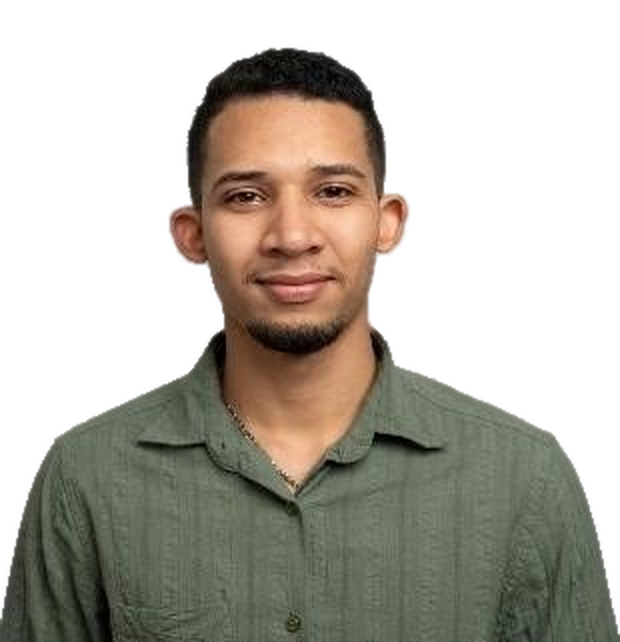
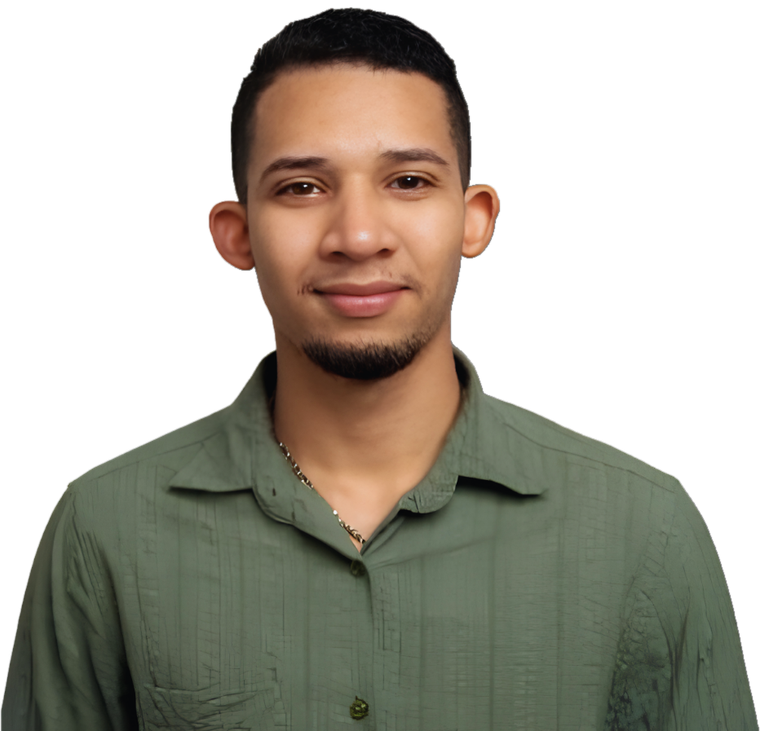
feat(portfolio): add Pandas, Spark, and n8n in structured 5x3 grid and upgrade HD portrait

diff --git a/index.html b/index.html
@@ -15,8 +15,8 @@
     <meta property="og:site_name" content="Jayzir Martinez | Portfolio">
     <meta property="og:title" content="Jayzir Martinez | Backend & Data Engineer">
     <meta property="og:description" content="Mechatronics Engineer specialized in Backend Architecture, Apache Airflow ETL Pipelines, FastAPI, PostgreSQL & Data Engineering.">
-    <meta property="og:image" content="https://jayzirtech.github.io/portfolio_JayzirTech/index_styles/assets/imgs/og-preview.jpg?v=3">
-    <meta property="og:image:secure_url" content="https://jayzirtech.github.io/portfolio_JayzirTech/index_styles/assets/imgs/og-preview.jpg?v=3">
+    <meta property="og:image" content="https://jayzirtech.github.io/portfolio_JayzirTech/index_styles/assets/imgs/og-preview.jpg?v=4">
+    <meta property="og:image:secure_url" content="https://jayzirtech.github.io/portfolio_JayzirTech/index_styles/assets/imgs/og-preview.jpg?v=4">
     <meta property="og:image:type" content="image/jpeg">
     <meta property="og:image:width" content="1200">
     <meta property="og:image:height" content="630">
@@ -29,14 +29,14 @@
     <meta name="twitter:url" content="https://jayzirtech.github.io/portfolio_JayzirTech/">
     <meta name="twitter:title" content="Jayzir Martinez | Backend & Data Engineer">
     <meta name="twitter:description" content="Mechatronics Engineer specialized in Backend Architecture, ETL Pipelines & Data Engineering.">
-    <meta name="twitter:image" content="https://jayzirtech.github.io/portfolio_JayzirTech/index_styles/assets/imgs/og-preview.jpg?v=3">
+    <meta name="twitter:image" content="https://jayzirtech.github.io/portfolio_JayzirTech/index_styles/assets/imgs/og-preview.jpg?v=4">
 
     <title>Jayzir Martinez | Backend &amp; Data Engineer</title>
     <link rel="shortcut icon" href="./index_styles/assets/imgs/Favicon.png" type="image/png">
     <link rel="preconnect" href="https://fonts.googleapis.com">
     <link rel="preconnect" href="https://fonts.gstatic.com" crossorigin>
     <link href="https://fonts.googleapis.com/css2?family=Inter:wght@400;500;600;700&family=JetBrains+Mono:wght@400;500;600&display=swap" rel="stylesheet">
-    <link rel="stylesheet" href="./index_styles/assets/css/style.css?v=3">
+    <link rel="stylesheet" href="./index_styles/assets/css/style.css?v=4">
 
     <!-- Prevent theme flash on load -->
     <script>
@@ -121,11 +121,11 @@
                     <div class="portrait-portal" aria-hidden="true"></div>
                     <div class="portrait-mask">
                         <img
-                            src="./index_styles/assets/imgs/jayzir-portrait.png"
+                            src="./index_styles/assets/imgs/jayzir-portrait.png?v=4"
                             alt="Jayzir Martinez"
                             class="portrait-img"
-                            width="310"
-                            height="321"
+                            width="760"
+                            height="731"
                         >
                     </div>
                 </div>
@@ -236,6 +236,7 @@
         <h3 data-i18n="tech.title">Lenguajes y Tecnologías</h3>
         <p class="section-subtitle" data-i18n="tech.subtitle">Haz clic en cualquier tecnología para visitar su sitio oficial.</p>
         <div class="tech-grid">
+            <!-- Python Core & Data Engineering -->
             <a href="https://www.python.org/" target="_blank" rel="noopener noreferrer" class="tech-item" title="Python">
                 <img src="./index_styles/assets/imgs/python.png" alt="Python" class="language-img" width="50" height="50">
                 <span class="tech-name">Python</span>
@@ -244,9 +245,27 @@
                 <img src="./index_styles/assets/imgs/tech/fastapi.svg" alt="FastAPI" class="language-img" width="50" height="50">
                 <span class="tech-name">FastAPI</span>
             </a>
+            <a href="https://pandas.pydata.org/" target="_blank" rel="noopener noreferrer" class="tech-item" title="Pandas">
+                <img src="./index_styles/assets/imgs/tech/pandas.svg" alt="Pandas" class="language-img" width="50" height="50">
+                <span class="tech-name">Pandas</span>
+            </a>
+            <a href="https://spark.apache.org/" target="_blank" rel="noopener noreferrer" class="tech-item" title="Apache Spark">
+                <img src="./index_styles/assets/imgs/tech/spark.svg" alt="Apache Spark" class="language-img" width="50" height="50">
+                <span class="tech-name">Spark</span>
+            </a>
             <a href="https://airflow.apache.org/" target="_blank" rel="noopener noreferrer" class="tech-item" title="Apache Airflow">
                 <img src="./index_styles/assets/imgs/tech/airflow.svg" alt="Apache Airflow" class="language-img" width="50" height="50">
                 <span class="tech-name">Airflow</span>
+            </a>
+
+            <!-- Automation, Messaging, Databases & Containers -->
+            <a href="https://n8n.io/" target="_blank" rel="noopener noreferrer" class="tech-item" title="n8n">
+                <img src="./index_styles/assets/imgs/tech/n8n.svg" alt="n8n" class="language-img" width="50" height="50">
+                <span class="tech-name">n8n</span>
+            </a>
+            <a href="https://www.rabbitmq.com/" target="_blank" rel="noopener noreferrer" class="tech-item" title="RabbitMQ">
+                <img src="./index_styles/assets/imgs/tech/rabbitmq.svg" alt="RabbitMQ" class="language-img" width="50" height="50">
+                <span class="tech-name">RabbitMQ</span>
             </a>
             <a href="https://www.postgresql.org/" target="_blank" rel="noopener noreferrer" class="tech-item" title="PostgreSQL">
                 <img src="./index_styles/assets/imgs/tech/postgresql.svg" alt="PostgreSQL" class="language-img" width="50" height="50">
@@ -260,10 +279,8 @@
                 <img src="./index_styles/assets/imgs/tech/docker.svg" alt="Docker" class="language-img" width="50" height="50">
                 <span class="tech-name">Docker</span>
             </a>
-            <a href="https://www.rabbitmq.com/" target="_blank" rel="noopener noreferrer" class="tech-item" title="RabbitMQ">
-                <img src="./index_styles/assets/imgs/tech/rabbitmq.svg" alt="RabbitMQ" class="language-img" width="50" height="50">
-                <span class="tech-name">RabbitMQ</span>
-            </a>
+
+            <!-- Version Control, Web Stack & Mechatronics -->
             <a href="https://git-scm.com/" target="_blank" rel="noopener noreferrer" class="tech-item" title="Git">
                 <img src="./index_styles/assets/imgs/tech/git.svg" alt="Git" class="language-img" width="50" height="50">
                 <span class="tech-name">Git</span>
@@ -272,10 +289,6 @@
                 <img src="./index_styles/assets/imgs/javascript.png" alt="JavaScript" class="language-img" width="50" height="50">
                 <span class="tech-name">JavaScript</span>
             </a>
-            <a href="https://www.arduino.cc/" target="_blank" rel="noopener noreferrer" class="tech-item" title="Arduino">
-                <img src="./index_styles/assets/imgs/arduino.png" alt="Arduino" class="language-img" width="50" height="50">
-                <span class="tech-name">Arduino</span>
-            </a>
             <a href="https://developer.mozilla.org/en-US/docs/Web/HTML" target="_blank" rel="noopener noreferrer" class="tech-item" title="HTML5">
                 <img src="./index_styles/assets/imgs/html.png" alt="HTML5" class="language-img" width="50" height="50">
                 <span class="tech-name">HTML5</span>
@@ -283,6 +296,10 @@
             <a href="https://developer.mozilla.org/en-US/docs/Web/CSS" target="_blank" rel="noopener noreferrer" class="tech-item" title="CSS3">
                 <img src="./index_styles/assets/imgs/css.png" alt="CSS3" class="language-img" width="50" height="50">
                 <span class="tech-name">CSS3</span>
+            </a>
+            <a href="https://www.arduino.cc/" target="_blank" rel="noopener noreferrer" class="tech-item" title="Arduino">
+                <img src="./index_styles/assets/imgs/arduino.png" alt="Arduino" class="language-img" width="50" height="50">
+                <span class="tech-name">Arduino</span>
             </a>
         </div>
     </section>
@@ -310,7 +327,7 @@
         <p data-i18n="footer.credit">&lt; Construido por Jayzir Martinez / 2026 &gt;</p>
     </footer>
 
-    <script src="./src/script.js?v=3"></script>
+    <script src="./src/script.js?v=4"></script>
 </body>
 
 </html>

diff --git a/index_styles/assets/sass/styles.scss b/index_styles/assets/sass/styles.scss
@@ -471,7 +471,7 @@ header {
 }
 
 .portrait-img {
-    width: 112%;
+    width: 116%;
     max-width: none;
     height: auto;
     display: block;
@@ -726,7 +726,7 @@ section {
    ========================================================================== */
 .tech-grid {
     display: grid;
-    grid-template-columns: repeat(auto-fill, minmax(122px, 1fr));
+    grid-template-columns: repeat(5, 1fr);
     gap: 18px;
     margin-top: 24px;
 }
@@ -959,8 +959,8 @@ footer {
     }
 
     .tech-grid {
-        grid-template-columns: repeat(auto-fill, minmax(98px, 1fr));
-        gap: 14px;
+        grid-template-columns: repeat(3, 1fr);
+        gap: 12px;
     }
 
     main,

diff --git a/index_styles/assets/css/style.css b/index_styles/assets/css/style.css
@@ -468,7 +468,7 @@ header {
 }
 
 .portrait-img {
-  width: 112%;
+  width: 116%;
   max-width: none;
   height: auto;
   display: block;
@@ -728,7 +728,7 @@ section p span {
    ========================================================================== */
 .tech-grid {
   display: grid;
-  grid-template-columns: repeat(auto-fill, minmax(122px, 1fr));
+  grid-template-columns: repeat(5, 1fr);
   gap: 18px;
   margin-top: 24px;
 }
@@ -961,8 +961,8 @@ footer {
   }
 
   .tech-grid {
-    grid-template-columns: repeat(auto-fill, minmax(98px, 1fr));
-    gap: 14px;
+    grid-template-columns: repeat(3, 1fr);
+    gap: 12px;
   }
 
   main,
